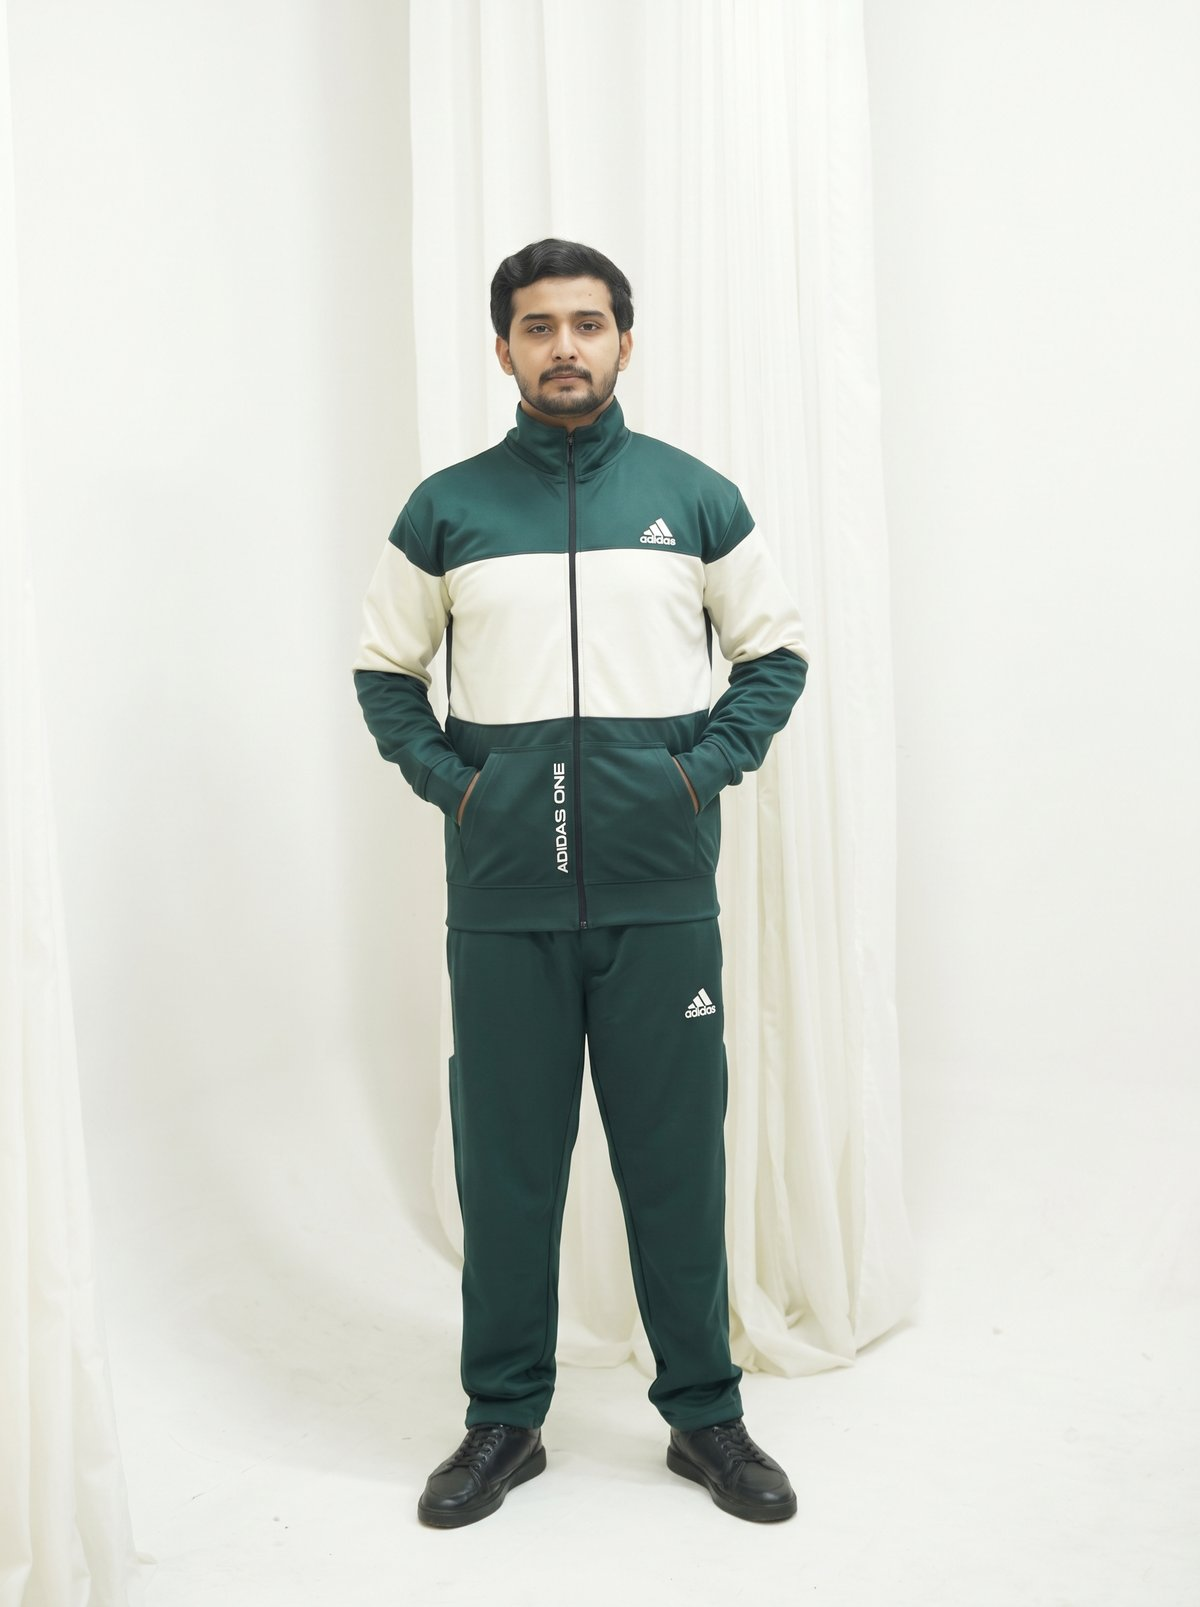
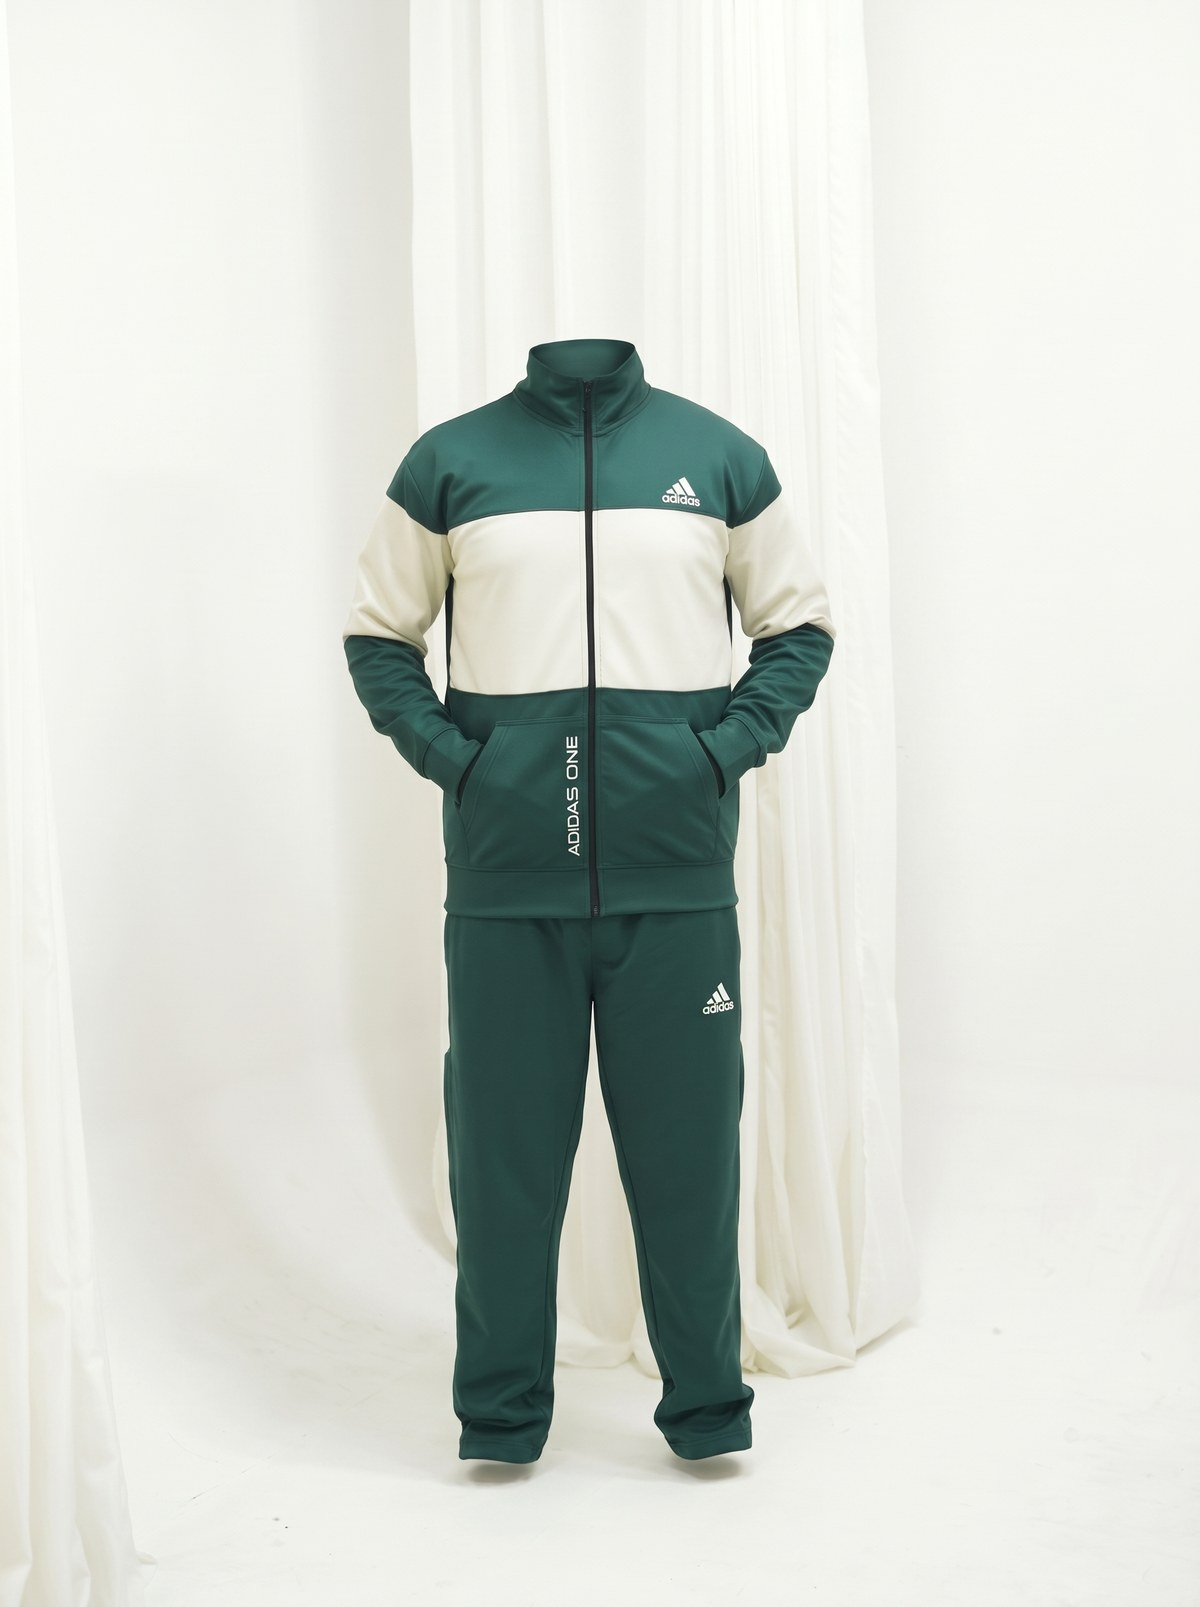
feat: add 4 luxury hero slider images, replace all 21 model product images, update Home slides & db retry logic

diff --git a/server/config/seed.js b/server/config/seed.js
@@ -16,23 +16,23 @@ const products = [
     category: 'Essential Set',
     fabric: '70% Cotton Double-Knit, 30% Recycled Poly Pique | 380 GSM',
     care: 'Machine wash cold inside out. Hang dry in shade. Low iron if needed.',
-    images: ['https://res.cloudinary.com/up56alno/image/upload/v1793333563/elvena_wear/products/1-model.jpg', 'https://res.cloudinary.com/up56alno/image/upload/v1793333562/elvena_wear/products/1-flat.jpg'],
+    images: ['https://res.cloudinary.com/up56alno/image/upload/v1793482225/elvena_wear/products/1-model.jpg', 'https://res.cloudinary.com/up56alno/image/upload/v1793333562/elvena_wear/products/1-flat.jpg'],
     colors: [
       {
         name: 'Forest Deep Teal',
         hex: '#374F4F',
         active: true,
-        modelImage: 'https://res.cloudinary.com/up56alno/image/upload/v1793333563/elvena_wear/products/1-model.jpg',
+        modelImage: 'https://res.cloudinary.com/up56alno/image/upload/v1793482225/elvena_wear/products/1-model.jpg',
         articleImage: 'https://res.cloudinary.com/up56alno/image/upload/v1793333562/elvena_wear/products/1-flat.jpg',
-        imageUrl: 'https://res.cloudinary.com/up56alno/image/upload/v1793333563/elvena_wear/products/1-model.jpg',
+        imageUrl: 'https://res.cloudinary.com/up56alno/image/upload/v1793482225/elvena_wear/products/1-model.jpg',
       },
       {
         name: 'Washed Olive Sage',
         hex: '#827F5E',
         active: true,
-        modelImage: 'https://res.cloudinary.com/up56alno/image/upload/v1793333566/elvena_wear/products/1.1-model.jpg',
+        modelImage: 'https://res.cloudinary.com/up56alno/image/upload/v1793482227/elvena_wear/products/1.1-model.jpg',
         articleImage: 'https://res.cloudinary.com/up56alno/image/upload/v1793333564/elvena_wear/products/1.1-flat.jpg',
-        imageUrl: 'https://res.cloudinary.com/up56alno/image/upload/v1793333566/elvena_wear/products/1.1-model.jpg',
+        imageUrl: 'https://res.cloudinary.com/up56alno/image/upload/v1793482227/elvena_wear/products/1.1-model.jpg',
       },
     ],
     sizes: [
@@ -56,23 +56,23 @@ const products = [
     category: 'Heavyweight Set',
     fabric: '80% Luxury Pima Cotton, 20% Technical Poly | 400 GSM',
     care: 'Hand wash cold or gentle cycle. Lay flat to dry.',
-    images: ['https://res.cloudinary.com/up56alno/image/upload/v1793333568/elvena_wear/products/2-model.jpg', 'https://res.cloudinary.com/up56alno/image/upload/v1793333567/elvena_wear/products/2-flat.jpg'],
+    images: ['https://res.cloudinary.com/up56alno/image/upload/v1793482228/elvena_wear/products/2-model.jpg', 'https://res.cloudinary.com/up56alno/image/upload/v1793333567/elvena_wear/products/2-flat.jpg'],
     colors: [
       {
         name: 'Obsidian & Cream Duo',
         hex: '#181818',
         active: true,
-        modelImage: 'https://res.cloudinary.com/up56alno/image/upload/v1793333568/elvena_wear/products/2-model.jpg',
+        modelImage: 'https://res.cloudinary.com/up56alno/image/upload/v1793482228/elvena_wear/products/2-model.jpg',
         articleImage: 'https://res.cloudinary.com/up56alno/image/upload/v1793333567/elvena_wear/products/2-flat.jpg',
-        imageUrl: 'https://res.cloudinary.com/up56alno/image/upload/v1793333568/elvena_wear/products/2-model.jpg',
+        imageUrl: 'https://res.cloudinary.com/up56alno/image/upload/v1793482228/elvena_wear/products/2-model.jpg',
       },
       {
         name: 'Carbon Asphalt Duo',
         hex: '#2B2D2F',
         active: true,
-        modelImage: 'https://res.cloudinary.com/up56alno/image/upload/v1793333571/elvena_wear/products/2.1-model.jpg',
+        modelImage: 'https://res.cloudinary.com/up56alno/image/upload/v1793482229/elvena_wear/products/2.1-model.jpg',
         articleImage: 'https://res.cloudinary.com/up56alno/image/upload/v1793333569/elvena_wear/products/2.1-flat.jpg',
-        imageUrl: 'https://res.cloudinary.com/up56alno/image/upload/v1793333571/elvena_wear/products/2.1-model.jpg',
+        imageUrl: 'https://res.cloudinary.com/up56alno/image/upload/v1793482229/elvena_wear/products/2.1-model.jpg',
       },
     ],
     sizes: [
@@ -97,39 +97,39 @@ const products = [
     category: 'Essential Set',
     fabric: '100% Organic Pima Cotton Brushed Fleece | 390 GSM',
     care: 'Cold wash gentle cycle. Do not bleach. Lay flat to dry.',
-    images: ['https://res.cloudinary.com/up56alno/image/upload/v1793333573/elvena_wear/products/3-model.jpg', 'https://res.cloudinary.com/up56alno/image/upload/v1793333572/elvena_wear/products/3-flat.jpg'],
+    images: ['https://res.cloudinary.com/up56alno/image/upload/v1793482232/elvena_wear/products/3-model.jpg', 'https://res.cloudinary.com/up56alno/image/upload/v1793333572/elvena_wear/products/3-flat.jpg'],
     colors: [
       {
         name: 'Charcoal Slate',
         hex: '#3C3B37',
         active: true,
-        modelImage: 'https://res.cloudinary.com/up56alno/image/upload/v1793333573/elvena_wear/products/3-model.jpg',
+        modelImage: 'https://res.cloudinary.com/up56alno/image/upload/v1793482232/elvena_wear/products/3-model.jpg',
         articleImage: 'https://res.cloudinary.com/up56alno/image/upload/v1793333572/elvena_wear/products/3-flat.jpg',
-        imageUrl: 'https://res.cloudinary.com/up56alno/image/upload/v1793333573/elvena_wear/products/3-model.jpg',
+        imageUrl: 'https://res.cloudinary.com/up56alno/image/upload/v1793482232/elvena_wear/products/3-model.jpg',
       },
       {
         name: 'Terracotta Rust',
         hex: '#85462C',
         active: true,
-        modelImage: 'https://res.cloudinary.com/up56alno/image/upload/v1793333575/elvena_wear/products/3.1-model.jpg',
+        modelImage: 'https://res.cloudinary.com/up56alno/image/upload/v1793482233/elvena_wear/products/3.1-model.jpg',
         articleImage: 'https://res.cloudinary.com/up56alno/image/upload/v1793333574/elvena_wear/products/3.1-flat.jpg',
-        imageUrl: 'https://res.cloudinary.com/up56alno/image/upload/v1793333575/elvena_wear/products/3.1-model.jpg',
+        imageUrl: 'https://res.cloudinary.com/up56alno/image/upload/v1793482233/elvena_wear/products/3.1-model.jpg',
       },
       {
         name: 'Stone Heather Grey',
         hex: '#68696E',
         active: true,
-        modelImage: 'https://res.cloudinary.com/up56alno/image/upload/v1793333577/elvena_wear/products/3.2-model.jpg',
+        modelImage: 'https://res.cloudinary.com/up56alno/image/upload/v1793482234/elvena_wear/products/3.2-model.jpg',
         articleImage: 'https://res.cloudinary.com/up56alno/image/upload/v1793333576/elvena_wear/products/3.2-flat.jpg',
-        imageUrl: 'https://res.cloudinary.com/up56alno/image/upload/v1793333577/elvena_wear/products/3.2-model.jpg',
+        imageUrl: 'https://res.cloudinary.com/up56alno/image/upload/v1793482234/elvena_wear/products/3.2-model.jpg',
       },
       {
         name: 'Desert Earth Taupe',
         hex: '#695B4F',
         active: true,
-        modelImage: 'https://res.cloudinary.com/up56alno/image/upload/v1793333579/elvena_wear/products/3.3-model.jpg',
+        modelImage: 'https://res.cloudinary.com/up56alno/image/upload/v1793482235/elvena_wear/products/3.3-model.jpg',
         articleImage: 'https://res.cloudinary.com/up56alno/image/upload/v1793333578/elvena_wear/products/3.3-flat.jpg',
-        imageUrl: 'https://res.cloudinary.com/up56alno/image/upload/v1793333579/elvena_wear/products/3.3-model.jpg',
+        imageUrl: 'https://res.cloudinary.com/up56alno/image/upload/v1793482235/elvena_wear/products/3.3-model.jpg',
       },
     ],
     sizes: [
@@ -154,23 +154,23 @@ const products = [
     category: 'Heavyweight Set',
     fabric: '85% Technical Cotton Blend, 15% Stretch Elastane | 360 GSM',
     care: 'Machine wash cold delicate. Tumble dry ultra-low.',
-    images: ['https://res.cloudinary.com/up56alno/image/upload/v1793333581/elvena_wear/products/4-model.jpg', 'https://res.cloudinary.com/up56alno/image/upload/v1793333580/elvena_wear/products/4-flat.jpg'],
+    images: ['https://res.cloudinary.com/up56alno/image/upload/v1793482238/elvena_wear/products/4-model.jpg', 'https://res.cloudinary.com/up56alno/image/upload/v1793333580/elvena_wear/products/4-flat.jpg'],
     colors: [
       {
         name: 'Desert Khaki Olive',
         hex: '#524D39',
         active: true,
-        modelImage: 'https://res.cloudinary.com/up56alno/image/upload/v1793333581/elvena_wear/products/4-model.jpg',
+        modelImage: 'https://res.cloudinary.com/up56alno/image/upload/v1793482238/elvena_wear/products/4-model.jpg',
         articleImage: 'https://res.cloudinary.com/up56alno/image/upload/v1793333580/elvena_wear/products/4-flat.jpg',
-        imageUrl: 'https://res.cloudinary.com/up56alno/image/upload/v1793333581/elvena_wear/products/4-model.jpg',
+        imageUrl: 'https://res.cloudinary.com/up56alno/image/upload/v1793482238/elvena_wear/products/4-model.jpg',
       },
       {
         name: 'Mineral Deep Teal',
         hex: '#263737',
         active: true,
-        modelImage: 'https://res.cloudinary.com/up56alno/image/upload/v1793333583/elvena_wear/products/4.1-model.jpg',
+        modelImage: 'https://res.cloudinary.com/up56alno/image/upload/v1793482239/elvena_wear/products/4.1-model.jpg',
         articleImage: 'https://res.cloudinary.com/up56alno/image/upload/v1793333582/elvena_wear/products/4.1-flat.jpg',
-        imageUrl: 'https://res.cloudinary.com/up56alno/image/upload/v1793333583/elvena_wear/products/4.1-model.jpg',
+        imageUrl: 'https://res.cloudinary.com/up56alno/image/upload/v1793482239/elvena_wear/products/4.1-model.jpg',
       },
     ],
     sizes: [
@@ -194,23 +194,23 @@ const products = [
     category: 'Heavyweight Set',
     fabric: '100% Unbrushed Loopback French Terry Cotton | 420 GSM',
     care: 'Cold water wash inside out. Do not tumble dry. Steam gently.',
-    images: ['https://res.cloudinary.com/up56alno/image/upload/v1793333585/elvena_wear/products/5-model.jpg', 'https://res.cloudinary.com/up56alno/image/upload/v1793333584/elvena_wear/products/5-flat.jpg'],
+    images: ['https://res.cloudinary.com/up56alno/image/upload/v1793482240/elvena_wear/products/5-model.jpg', 'https://res.cloudinary.com/up56alno/image/upload/v1793333584/elvena_wear/products/5-flat.jpg'],
     colors: [
       {
         name: 'Midnight Pitch Black',
         hex: '#1E1E1E',
         active: true,
-        modelImage: 'https://res.cloudinary.com/up56alno/image/upload/v1793333585/elvena_wear/products/5-model.jpg',
+        modelImage: 'https://res.cloudinary.com/up56alno/image/upload/v1793482240/elvena_wear/products/5-model.jpg',
         articleImage: 'https://res.cloudinary.com/up56alno/image/upload/v1793333584/elvena_wear/products/5-flat.jpg',
-        imageUrl: 'https://res.cloudinary.com/up56alno/image/upload/v1793333585/elvena_wear/products/5-model.jpg',
+        imageUrl: 'https://res.cloudinary.com/up56alno/image/upload/v1793482240/elvena_wear/products/5-model.jpg',
       },
       {
         name: 'Ivory Chalk Grey',
         hex: '#CECAC7',
         active: true,
-        modelImage: 'https://res.cloudinary.com/up56alno/image/upload/v1793333587/elvena_wear/products/5.1-model.jpg',
+        modelImage: 'https://res.cloudinary.com/up56alno/image/upload/v1793482241/elvena_wear/products/5.1-model.jpg',
         articleImage: 'https://res.cloudinary.com/up56alno/image/upload/v1793333586/elvena_wear/products/5.1-flat.jpg',
-        imageUrl: 'https://res.cloudinary.com/up56alno/image/upload/v1793333587/elvena_wear/products/5.1-model.jpg',
+        imageUrl: 'https://res.cloudinary.com/up56alno/image/upload/v1793482241/elvena_wear/products/5.1-model.jpg',
       },
     ],
     sizes: [
@@ -235,31 +235,31 @@ const products = [
     category: 'Essential Set',
     fabric: '75% Pima Cotton, 25% High-Tensile Poly | 350 GSM',
     care: 'Machine wash cold with similar colors. Hang dry.',
-    images: ['https://res.cloudinary.com/up56alno/image/upload/v1793333589/elvena_wear/products/6-model.jpg', 'https://res.cloudinary.com/up56alno/image/upload/v1793333588/elvena_wear/products/6-flat.jpg'],
+    images: ['https://res.cloudinary.com/up56alno/image/upload/v1793482244/elvena_wear/products/6-model.jpg', 'https://res.cloudinary.com/up56alno/image/upload/v1793333588/elvena_wear/products/6-flat.jpg'],
     colors: [
       {
         name: 'Camel Beige & Black',
         hex: '#C2AC97',
         active: true,
-        modelImage: 'https://res.cloudinary.com/up56alno/image/upload/v1793333589/elvena_wear/products/6-model.jpg',
+        modelImage: 'https://res.cloudinary.com/up56alno/image/upload/v1793482244/elvena_wear/products/6-model.jpg',
         articleImage: 'https://res.cloudinary.com/up56alno/image/upload/v1793333588/elvena_wear/products/6-flat.jpg',
-        imageUrl: 'https://res.cloudinary.com/up56alno/image/upload/v1793333589/elvena_wear/products/6-model.jpg',
+        imageUrl: 'https://res.cloudinary.com/up56alno/image/upload/v1793482244/elvena_wear/products/6-model.jpg',
       },
       {
         name: 'Off-White & Charcoal Slate',
         hex: '#CFCECA',
         active: true,
-        modelImage: 'https://res.cloudinary.com/up56alno/image/upload/v1793333591/elvena_wear/products/6.1-model.jpg',
+        modelImage: 'https://res.cloudinary.com/up56alno/image/upload/v1793482245/elvena_wear/products/6.1-model.jpg',
         articleImage: 'https://res.cloudinary.com/up56alno/image/upload/v1793333590/elvena_wear/products/6.1-flat.jpg',
-        imageUrl: 'https://res.cloudinary.com/up56alno/image/upload/v1793333591/elvena_wear/products/6.1-model.jpg',
+        imageUrl: 'https://res.cloudinary.com/up56alno/image/upload/v1793482245/elvena_wear/products/6.1-model.jpg',
       },
       {
         name: 'Rust Amber & Black',
         hex: '#8C482A',
         active: true,
-        modelImage: 'https://res.cloudinary.com/up56alno/image/upload/v1793335957/elvena_wear/products/6.2-model.jpg',
+        modelImage: 'https://res.cloudinary.com/up56alno/image/upload/v1793482246/elvena_wear/products/6.2-model.jpg',
         articleImage: 'https://res.cloudinary.com/up56alno/image/upload/v1793335958/elvena_wear/products/6.2-flat.jpg',
-        imageUrl: 'https://res.cloudinary.com/up56alno/image/upload/v1793335957/elvena_wear/products/6.2-model.jpg',
+        imageUrl: 'https://res.cloudinary.com/up56alno/image/upload/v1793482246/elvena_wear/products/6.2-model.jpg',
       },
     ],
     sizes: [
@@ -283,31 +283,31 @@ const products = [
     category: 'Cashmere Set',
     fabric: '70% Long-Staple Cotton, 25% Silk-Touch Modal, 5% Cashmere | 380 GSM',
     care: 'Dry clean recommended or ultra-gentle hand wash. Lay flat.',
-    images: ['https://res.cloudinary.com/up56alno/image/upload/v1793333593/elvena_wear/products/7-model.jpg', 'https://res.cloudinary.com/up56alno/image/upload/v1793333592/elvena_wear/products/7-flat.jpg'],
+    images: ['https://res.cloudinary.com/up56alno/image/upload/v1793482247/elvena_wear/products/7-model.jpg', 'https://res.cloudinary.com/up56alno/image/upload/v1793333592/elvena_wear/products/7-flat.jpg'],
     colors: [
       {
         name: 'Warm Taupe Sand',
         hex: '#7A7167',
         active: true,
-        modelImage: 'https://res.cloudinary.com/up56alno/image/upload/v1793333593/elvena_wear/products/7-model.jpg',
+        modelImage: 'https://res.cloudinary.com/up56alno/image/upload/v1793482247/elvena_wear/products/7-model.jpg',
         articleImage: 'https://res.cloudinary.com/up56alno/image/upload/v1793333592/elvena_wear/products/7-flat.jpg',
-        imageUrl: 'https://res.cloudinary.com/up56alno/image/upload/v1793333593/elvena_wear/products/7-model.jpg',
+        imageUrl: 'https://res.cloudinary.com/up56alno/image/upload/v1793482247/elvena_wear/products/7-model.jpg',
       },
       {
         name: 'Platinum Pearl White',
         hex: '#D3CAC1',
         active: true,
-        modelImage: 'https://res.cloudinary.com/up56alno/image/upload/v1793333595/elvena_wear/products/7.1-model.jpg',
+        modelImage: 'https://res.cloudinary.com/up56alno/image/upload/v1793482249/elvena_wear/products/7.1-model.jpg',
         articleImage: 'https://res.cloudinary.com/up56alno/image/upload/v1793333594/elvena_wear/products/7.1-flat.jpg',
-        imageUrl: 'https://res.cloudinary.com/up56alno/image/upload/v1793333595/elvena_wear/products/7.1-model.jpg',
+        imageUrl: 'https://res.cloudinary.com/up56alno/image/upload/v1793482249/elvena_wear/products/7.1-model.jpg',
       },
       {
         name: 'Obsidian Shadow',
         hex: '#262626',
         active: true,
-        modelImage: 'https://res.cloudinary.com/up56alno/image/upload/v1793333597/elvena_wear/products/7.2-model.jpg',
+        modelImage: 'https://res.cloudinary.com/up56alno/image/upload/v1793482251/elvena_wear/products/7.2-model.jpg',
         articleImage: 'https://res.cloudinary.com/up56alno/image/upload/v1793333596/elvena_wear/products/7.2-flat.jpg',
-        imageUrl: 'https://res.cloudinary.com/up56alno/image/upload/v1793333597/elvena_wear/products/7.2-model.jpg',
+        imageUrl: 'https://res.cloudinary.com/up56alno/image/upload/v1793482251/elvena_wear/products/7.2-model.jpg',
       },
     ],
     sizes: [
@@ -331,31 +331,31 @@ const products = [
     category: 'Velour Set',
     fabric: '80% Premium Plush Velour Cotton, 20% Technical Silk Poly | 410 GSM',
     care: 'Dry clean or inside-out cold gentle wash. Do not iron directly on velour.',
-    images: ['https://res.cloudinary.com/up56alno/image/upload/v1793333600/elvena_wear/products/8-model.jpg', 'https://res.cloudinary.com/up56alno/image/upload/v1793333598/elvena_wear/products/8-flat.jpg'],
+    images: ['https://res.cloudinary.com/up56alno/image/upload/v1793482252/elvena_wear/products/8-model.jpg', 'https://res.cloudinary.com/up56alno/image/upload/v1793333598/elvena_wear/products/8-flat.jpg'],
     colors: [
       {
         name: 'Mocha Espresso',
         hex: '#473E37',
         active: true,
-        modelImage: 'https://res.cloudinary.com/up56alno/image/upload/v1793333600/elvena_wear/products/8-model.jpg',
+        modelImage: 'https://res.cloudinary.com/up56alno/image/upload/v1793482252/elvena_wear/products/8-model.jpg',
         articleImage: 'https://res.cloudinary.com/up56alno/image/upload/v1793333598/elvena_wear/products/8-flat.jpg',
-        imageUrl: 'https://res.cloudinary.com/up56alno/image/upload/v1793333600/elvena_wear/products/8-model.jpg',
+        imageUrl: 'https://res.cloudinary.com/up56alno/image/upload/v1793482252/elvena_wear/products/8-model.jpg',
       },
       {
         name: 'Champagne Almond',
         hex: '#C5AF98',
         active: true,
-        modelImage: 'https://res.cloudinary.com/up56alno/image/upload/v1793333601/elvena_wear/products/8.1-model.jpg',
+        modelImage: 'https://res.cloudinary.com/up56alno/image/upload/v1793482253/elvena_wear/products/8.1-model.jpg',
         articleImage: 'https://res.cloudinary.com/up56alno/image/upload/v1793333600/elvena_wear/products/8.1-flat.jpg',
-        imageUrl: 'https://res.cloudinary.com/up56alno/image/upload/v1793333601/elvena_wear/products/8.1-model.jpg',
+        imageUrl: 'https://res.cloudinary.com/up56alno/image/upload/v1793482253/elvena_wear/products/8.1-model.jpg',
       },
       {
         name: 'Noir Velvet Black',
         hex: '#202020',
         active: true,
-        modelImage: 'https://res.cloudinary.com/up56alno/image/upload/v1793333603/elvena_wear/products/8.2-model.jpg',
+        modelImage: 'https://res.cloudinary.com/up56alno/image/upload/v1793482255/elvena_wear/products/8.2-model.jpg',
         articleImage: 'https://res.cloudinary.com/up56alno/image/upload/v1793333602/elvena_wear/products/8.2-flat.jpg',
-        imageUrl: 'https://res.cloudinary.com/up56alno/image/upload/v1793333603/elvena_wear/products/8.2-model.jpg',
+        imageUrl: 'https://res.cloudinary.com/up56alno/image/upload/v1793482255/elvena_wear/products/8.2-model.jpg',
       },
     ],
     sizes: [

diff --git a/client/src/pages/Home.jsx b/client/src/pages/Home.jsx
@@ -8,19 +8,24 @@ import api, { formatPKR } from '../utils/api';
 
 const HERO_SLIDES = [
   {
-    image: '/images/hero/hero-1.jpg',
-    badge: 'Atelier Cashmere Edition • 01',
-    edition: 'Pure Mongolian Cashmere • 380 GSM',
+    image: 'https://res.cloudinary.com/up56alno/image/upload/v1793486450/elvena_wear/hero/hero-1.jpg',
+    badge: 'Mineral Deep Teal • Atelier 01',
+    edition: 'Double-Knit Archival Pique • 380 GSM',
   },
   {
-    image: '/images/hero/hero-2.jpg',
-    badge: 'Architectural Charcoal & Slate • 02',
-    edition: 'Tailored Zip Hoodie Set • Double-Faced Cotton',
+    image: 'https://res.cloudinary.com/up56alno/image/upload/v1793486451/elvena_wear/hero/hero-2.jpg',
+    badge: 'Almond Champagne • Atelier 02',
+    edition: 'Plush Micro-Velour Lounge • 410 GSM',
   },
   {
-    image: '/images/hero/hero-3.jpg',
-    badge: 'Sandstone Camel Merino • 03',
-    edition: 'Quiet Luxury Drape • 100% Merino Wool',
+    image: 'https://res.cloudinary.com/up56alno/image/upload/v1793486452/elvena_wear/hero/hero-3.jpg',
+    badge: 'Obsidian Midnight • Atelier 03',
+    edition: 'Loopback Heavyweight French Terry • 420 GSM',
+  },
+  {
+    image: 'https://res.cloudinary.com/up56alno/image/upload/v1793486453/elvena_wear/hero/hero-4.jpg',
+    badge: 'Taupe Sandstone • Atelier 04',
+    edition: 'Noble Cashmere-Touch Fiber • 380 GSM',
   },
 ];
 

diff --git a/server/config/db.js b/server/config/db.js
@@ -1,12 +1,20 @@
 import mongoose from 'mongoose';
 
-const connectDB = async () => {
-  try {
-    const conn = await mongoose.connect(process.env.MONGO_URI);
-    console.log(`✅ MongoDB Connected: ${conn.connection.host}`);
-  } catch (error) {
-    console.error(`❌ MongoDB Error: ${error.message}`);
-    process.exit(1);
+const connectDB = async (retries = 5) => {
+  while (retries) {
+    try {
+      const conn = await mongoose.connect(process.env.MONGO_URI);
+      console.log(`✅ MongoDB Connected: ${conn.connection.host}`);
+      return;
+    } catch (error) {
+      console.error(`❌ MongoDB Error: ${error.message}`);
+      retries -= 1;
+      if (retries === 0) {
+        process.exit(1);
+      }
+      console.log(`Retrying MongoDB connection (${retries} retries left)...`);
+      await new Promise(res => setTimeout(res, 2000));
+    }
   }
 };
 
